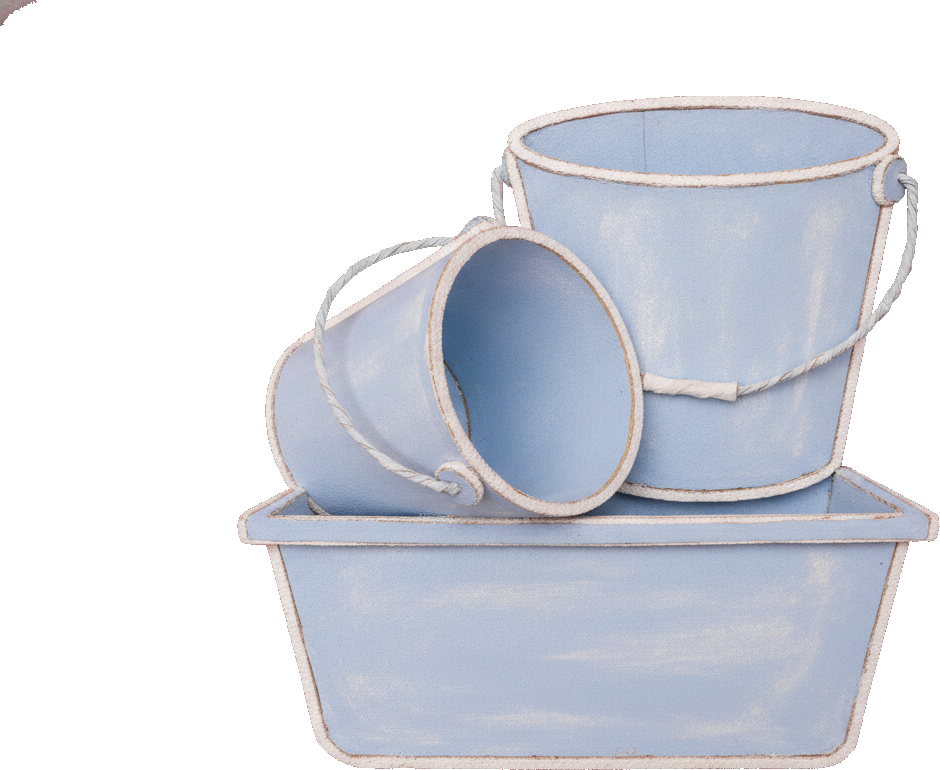
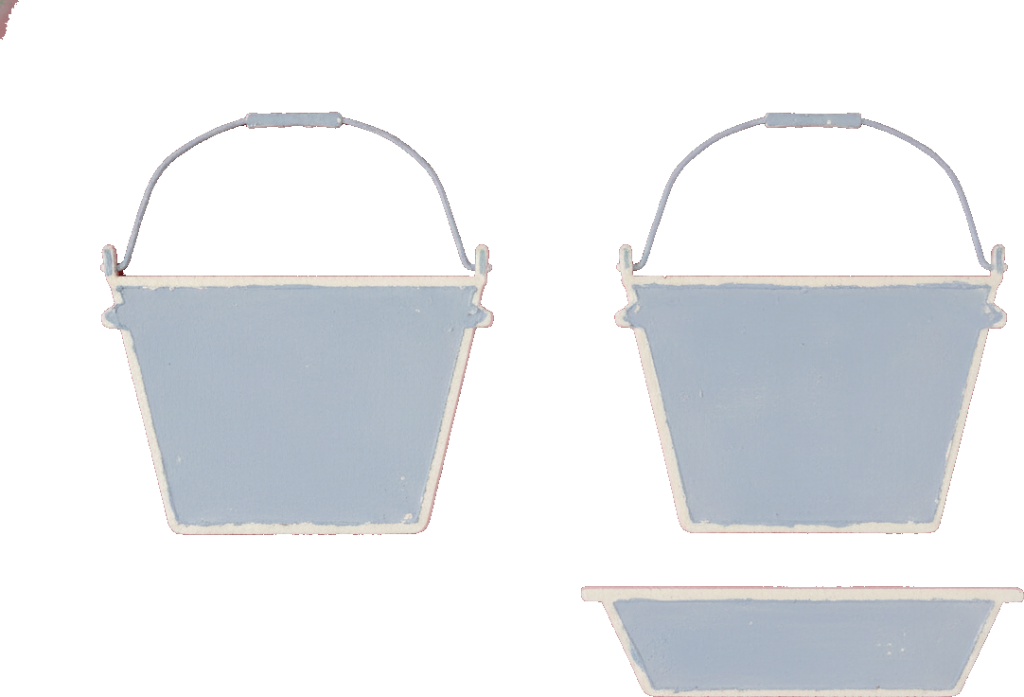
art(eeri): flatten the World 1 library — there is no 3D ground to stand on
The environment is flat planes and a prop meets the world at a single ground
LINE; there is no floor extending back in z. Six of the twelve direction
pieces were photographed from above their own middle and so brought a floor
with them — visible tops of the sacks, inside the buckets, the lid of the
chest, the pallet deck. That is geometry the level cannot honour, not a style
preference, so all six are re-rolled in true elevation.

The README already said "NO three-quarter tabletop/product-render angle" and
it did not prevent any of this, because that names a CAMERA POSITION and a
model can miss it by ten degrees and still feel obedient. Replaced with the
consequence, which has no degrees in it and settles by eye in a second:

    A CIRCLE SEEN IN TRUE ELEVATION IS A STRAIGHT LINE, NOT AN ELLIPSE.

Every offender had an ellipse somewhere — bucket rim, drum barrel, pallet
board, roof cap. Find an ellipse and the camera is off-axis and the piece is
carrying ground. Companion tell, same fact from the other side: if you can see
the top of it or inside it, it is wrong.

Two non-obvious things the pass cost, both now in the README:

  - NEVER ask an elevation piece for anything along its SIDE. "the cut foam
    core showing down one edge" is a request for a second face, and slabtower
    duly turned and grew a dark receding side wall — the exact volume the pass
    exists to remove. Material detail lives on the front face.
[…]

diff --git a/eeri/art-src/world-1-library/README.md b/eeri/art-src/world-1-library/README.md
@@ -30,20 +30,50 @@ Reference: the current World 1 / Groundworks look.
 
 ### Critical plane rule
 
-The current environment system is made from **flat 2D planes**. Therefore
-library pieces must work when composited onto a flat layer:
+**There is no expanded 3D ground area in this game.** The environment is made
+from **flat 2D planes** and a prop meets the world at a single ground *line* —
+there is no floor extending back in z for anything to stand on. So a piece
+that was photographed from anywhere above its own middle brings a floor with
+it, and the level cannot honour it. This is geometry, not taste.
 
 - NO visible floor plane under an object
 - NO pedestal/base added merely to make a prop stand up
 - NO three-quarter tabletop/product-render angle
 - NO cast shadow that implies an unseen floor
 - NO perspective ground receding toward the horizon
-- prefer frontal or near-side-on cutout construction
+- frontal or dead side-on cutout construction
 - apparent material thickness is allowed at exposed cardboard edges, but the
   overall asset must still read as a flat stage-set/cutout piece
 
 If a prop logically needs ground contact, compose it so its bottom edge simply
 meets the level's existing flat ground line.
+
+#### The elevation test
+
+Naming the camera angle did **not** prevent the problem — six of the first
+twelve direction pieces came back carrying volume anyway, because a model can
+miss "no three-quarter angle" by ten degrees and still feel obedient. Ask for
+the *consequence* instead. It has no degrees in it and it settles in a second:
+
+> **A circle seen in true elevation is a straight LINE, not an ellipse.**
+
+Every offender had an ellipse somewhere — a bucket rim, a drum barrel, a
+pallet board, a roof cap. **If you can find an ellipse, the camera is off-axis
+and the piece is carrying ground.** The companion tell is the same fact from
+the other side: **if you can see the top of it, or inside it, it is wrong** —
+no top face, no lid surface, no open mouth, no upper edge turning away.
+
+Two things follow that are not obvious:
+
+- **Never ask an elevation piece for anything along its side.** Requesting
+  "the cut foam core showing down one edge" is requesting a second face, and
+  the model will turn the object to give you one. Material detail has to live
+  on the front face.
+- **Flatness and craft pull against each other.** Elevation removes the
+  shading that normally sells "handmade", and a model will reach for vector
+  art to fill the gap — flat, obedient, and suddenly clip art. So name the
+  material as *surface* (paper fibre, chalky matte paint, brush marks,
+  hand-cut edges) rather than leaving it to be implied by light.
 
 ### Clouds
 

diff --git a/eeri/art-src/world-1-library/INDEX.md b/eeri/art-src/world-1-library/INDEX.md
@@ -103,19 +103,27 @@ spread, and a name that ends in its material is a name you can shop by.
 | folder | file | material lead |
 |---|---|---|
 | `background/` | `gantry-steel.png` | painted steel — a pale blue lattice gantry, thin and quiet |
-| `background/` | `slabtower-foam.png` | painted foam board — putty-grey slab, cut core showing down one edge |
+| `background/` | `slabtower-foam.png` | painted foam board — putty-grey slab, bubble grain across the face |
 | `midground/` | `bagstack-kraft.png` | kraft paper — cement sacks stacked on a corrugated pallet |
 | `midground/` | `formwork-balsa.png` | balsa — a braced formwork panel, open grain, A-frame legs |
 | `midground/` | `hoarding-tape.png` | masking tape — a taped-over hoarding, tape *as* the drawing |
 | `midground/` | `liftshaft-brass.png` | brass fasteners — split-pin heads marching up both edges |
 | `foreground/` | `mesh-steel.png` | painted steel — a dark mesh panel to crop against the edge |
 | `foreground/` | `plankcross-balsa.png` | balsa — two planks in an X, cropped by all four edges |
-| `props/` | `cabledrum-kraft.png` | corrugated card — drum flanges showing their flutes side-on |
+| `props/` | `cabledrum-kraft.png` | corrugated card — one flange dead-on, a true circle, fluted rim |
 | `props/` | `mixerbucket-foam.png` | painted foam board — chalky buckets, thick soft-cut rims |
 | `props/` | `toolchest-steel.png` | painted steel — the set's one saturated red |
 | `props/` | `turfroll-felt.png` | wool felt — two turf rolls crossed, the nap doing the work |
 
-**Two things cost a re-roll each, and both are the plane rule** (README §
+**The set was flattened after the first cut.** Six of the twelve came back
+carrying volume — you could see the tops of the sacks, inside the buckets, the
+lid of the chest — and there is **no expanded 3D ground in this game** for any
+of that to stand on. The full rule and the test that catches it now live in
+README § "The elevation test"; the short version is *a circle in true
+elevation is a straight line, not an ellipse*, so an ellipse anywhere means the
+camera is off-axis and the piece is carrying ground.
+
+**Three more things cost a re-roll each, all the plane rule** (README §
 "Critical plane rule"), so they are worth naming:
 
 1. **A cast shadow survives keying.** A shadow on magenta is *dark* magenta,
